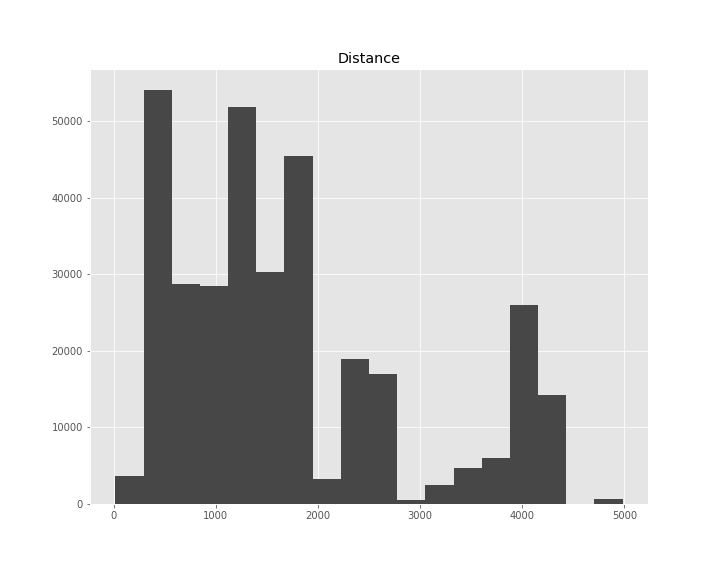
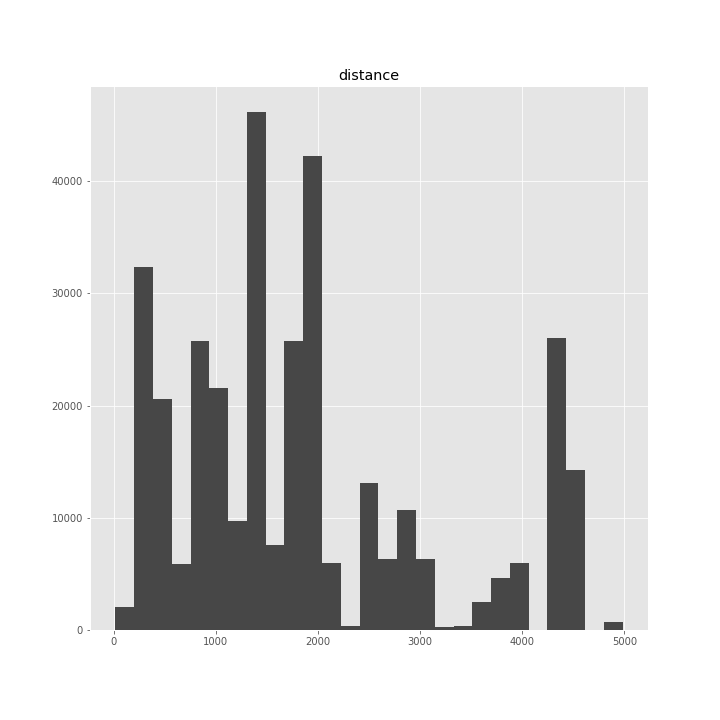
Match API to pandas.hist

diff --git a/spark_plot/mpl.py b/spark_plot/mpl.py
@@ -1,18 +1,68 @@
 import numpy as np
 import matplotlib.pyplot as plt
-
+from pandas.plotting._matplotlib import tools as pd_mpl_tools
 
 from . import hist as hist_
 
 
-def hist(df, column, bins=30, binwidth=None, *args, **kwargs):
-    buckets, weights = hist_.calc(df, column, bins=bins, binwidth=binwidth)
+def hist(
+    df,
+    column,
+    bins=50,
+    bin_width=None,
+    ax=None,
+    figsize=None,
+    layout=None,
+    # sharex: bool = False,
+    # sharey: bool = False,
+    grid: bool = True,
+    legend: bool = False,
+    **kwargs,
+):
+    """
+    Parameters
+    ----------
+        df: Spark DataFrame
+        column: string
+        bins : int, default 50
+        bin_width: int, default None. Used if bins=None
+        ax : axes, optional
+        figsize : tuple, optional
+        layout : optional
+        # sharex : bool, default False
+        # sharey : bool, default False
+        grid : bool, default True
+        legend: bool = False,
+        kwargs : dict, keyword arguments passed to matplotlib.Axes.hist
+    """
 
+    buckets, weights = hist_.calc(df, column, bins=bins, bin_width=bin_width)
+
+    # TODO: dynamic axes with column = None as default
+    naxes = 1
+    fig, axes = pd_mpl_tools.create_subplots(
+        naxes=naxes,
+        ax=ax,
+        figsize=figsize,
+        layout=layout,
+        # sharex=sharex,
+        # sharey=sharey,
+        squeeze=False,
+    )
+    _axes = pd_mpl_tools.flatten_axes(axes)
+
+    ax = _axes[0]
     # We need to remove the last item to pass it to Matplotlib an array with the same length as the weights
     x = np.linspace(buckets[0], buckets[-1], len(weights))
-    _, _, patches = plt.hist(x, len(x), weights=weights, *args, **kwargs)
+    ax.hist(x, len(x), weights=weights, **kwargs)
 
-    return patches
+    #
+    ax.set_title(column)
+    ax.grid(grid)
+    if legend:
+        ax.legend()
+
+    return _axes
 
 
 def set_defaults():

diff --git a/spark_plot/hist.py b/spark_plot/hist.py
@@ -1,8 +1,9 @@
 import pyspark.sql.functions as F
 from pyspark.ml.feature import Bucketizer
+from pyspark.sql.types import IntegerType, LongType, FloatType, DoubleType, DecimalType
 
 
-def calc(df, column, bins=30, binwidth=None):
+def calc(df, column: str, bins=30, bin_width=None):
     """
     Calculate the buckets and weights for a histogram
 
@@ -10,20 +11,27 @@ def calc(df, column, bins=30, binwidth=None):
     -------
         (buckets, weights): tuple of two lists
     """
-
-    if bins is None and binwidth is None:
-        raise ValueError("Must indicate bins or binwidth")
-    elif bins is None and binwidth is not None:
-        raise ValueError("bins and binwidth arguments are mutually exclusive")
+    if bins is None and bin_width is None:
+        raise ValueError("Must indicate bins or bin_width")
+    elif bins is None and bin_width is not None:
+        raise ValueError("bins and bin_width arguments are mutually exclusive")
 
     # Calculate buckets
     col_df = df[[column]]
+
+    int_types = (IntegerType, LongType, FloatType, DoubleType, DecimalType)
+    col_type = col_df.schema.fields[0].dataType
+    if not isinstance(col_type, int_types):
+        raise ValueError(
+            "hist method requires numerical or datetime columns, nothing to plot."
+        )
+
     limits = col_df.agg(F.min(column), F.max(column)).collect()
     min_, max_ = limits[0][0], limits[0][1]
 
-    if binwidth is None:
-        binwidth = (max_ - min_) / (bins)
-    buckets = [min_ + i * binwidth for i in range(bins + 1)]
+    if bin_width is None:
+        bin_width = (max_ - min_) / (bins)
+    buckets = [min_ + i * bin_width for i in range(bins + 1)]
 
     # Calculate counts based on the buckets
     bucketizer = Bucketizer(splits=buckets, inputCol=column, outputCol="bucket")

diff --git a/README.md b/README.md
@@ -4,8 +4,13 @@
 [![Testing](https://github.com/danielfrg/spark-plot/workflows/test/badge.svg)](https://github.com/danielfrg/spark-plot/actions)
 [![License](https://img.shields.io/:license-Apache%202-blue.svg)](https://github.com/danielfrg/spark-plot/blob/master/LICENSE.txt)
 
-Simplifies plotting Spark DataFrames by make calculations for plots in Spark.
-Supports (soon) multiple Python plotting frontends
+- Simplifies plotting Spark DataFrames by making calculations for plots inside Spark
+- Plot types: Histogram
+- Generates Matplotlib plots with a similar [Pandas Plotting API](https://pandas.pydata.org/docs/user_guide/visualization.html)
+
+TODO:
+- Raster plots (2D Histograms)
+- Supports multiple Python plotting frontends (Altair, Plotly and more)
 
 ## Installation
 
@@ -27,13 +32,7 @@ flights = spark.createDataFrame(flights_pd)
 
 from spark_plot import mpl
 
-fig = plt.figure()
-
-# spark-plot code
 mpl.hist(flights, "distance", color="#474747")
-
-plt.title("Distance")
-plt.show()
 ```
 
 ![Flights Histogram](https://github.com/danielfrg/spark-plot/raw/main/docs/flights_hist.png "Flights Distance Histogram")
